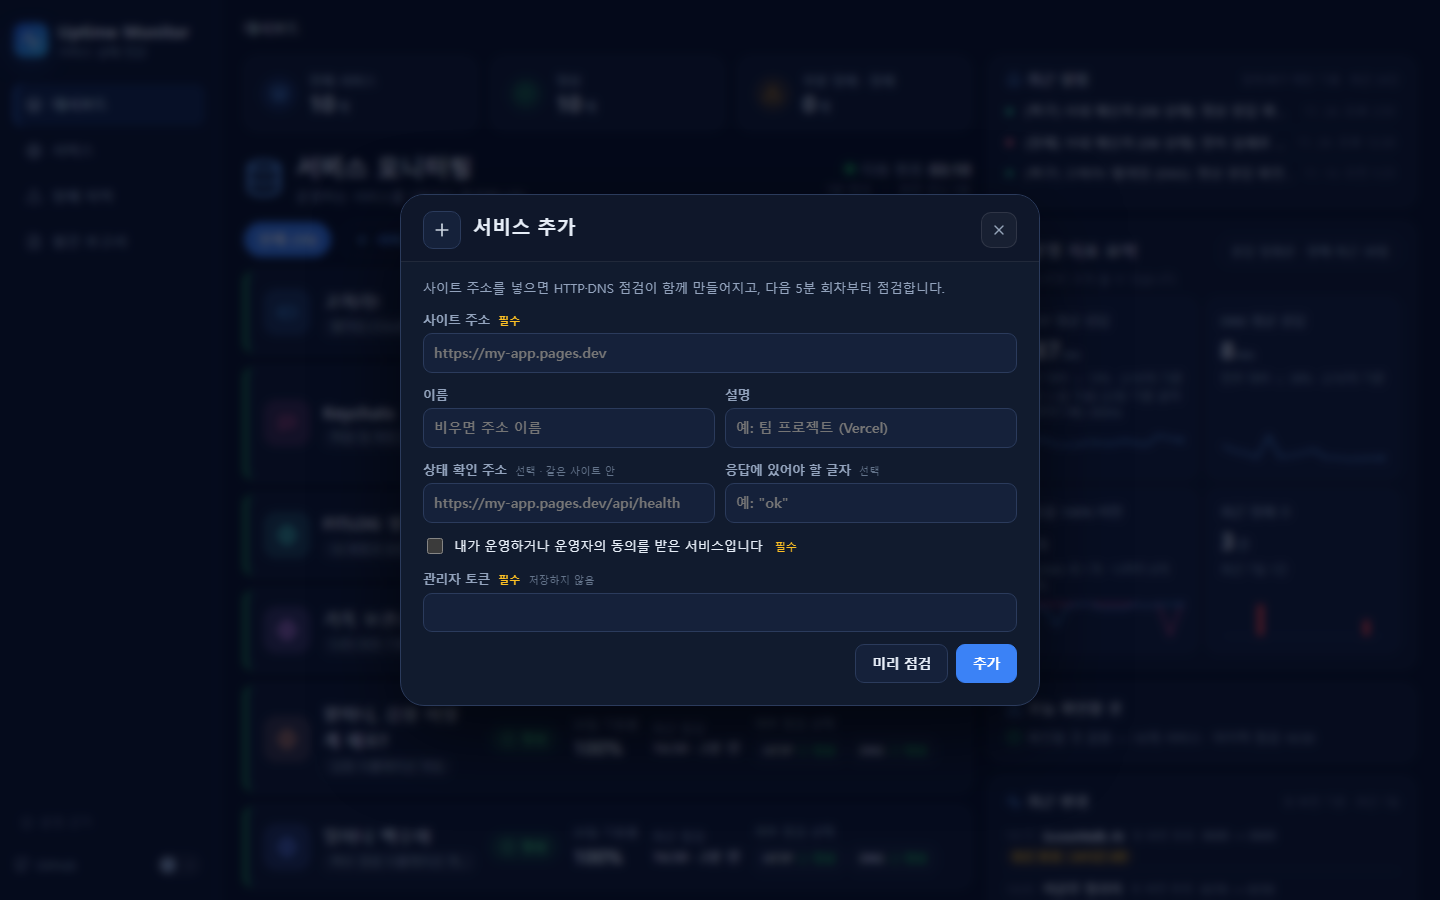
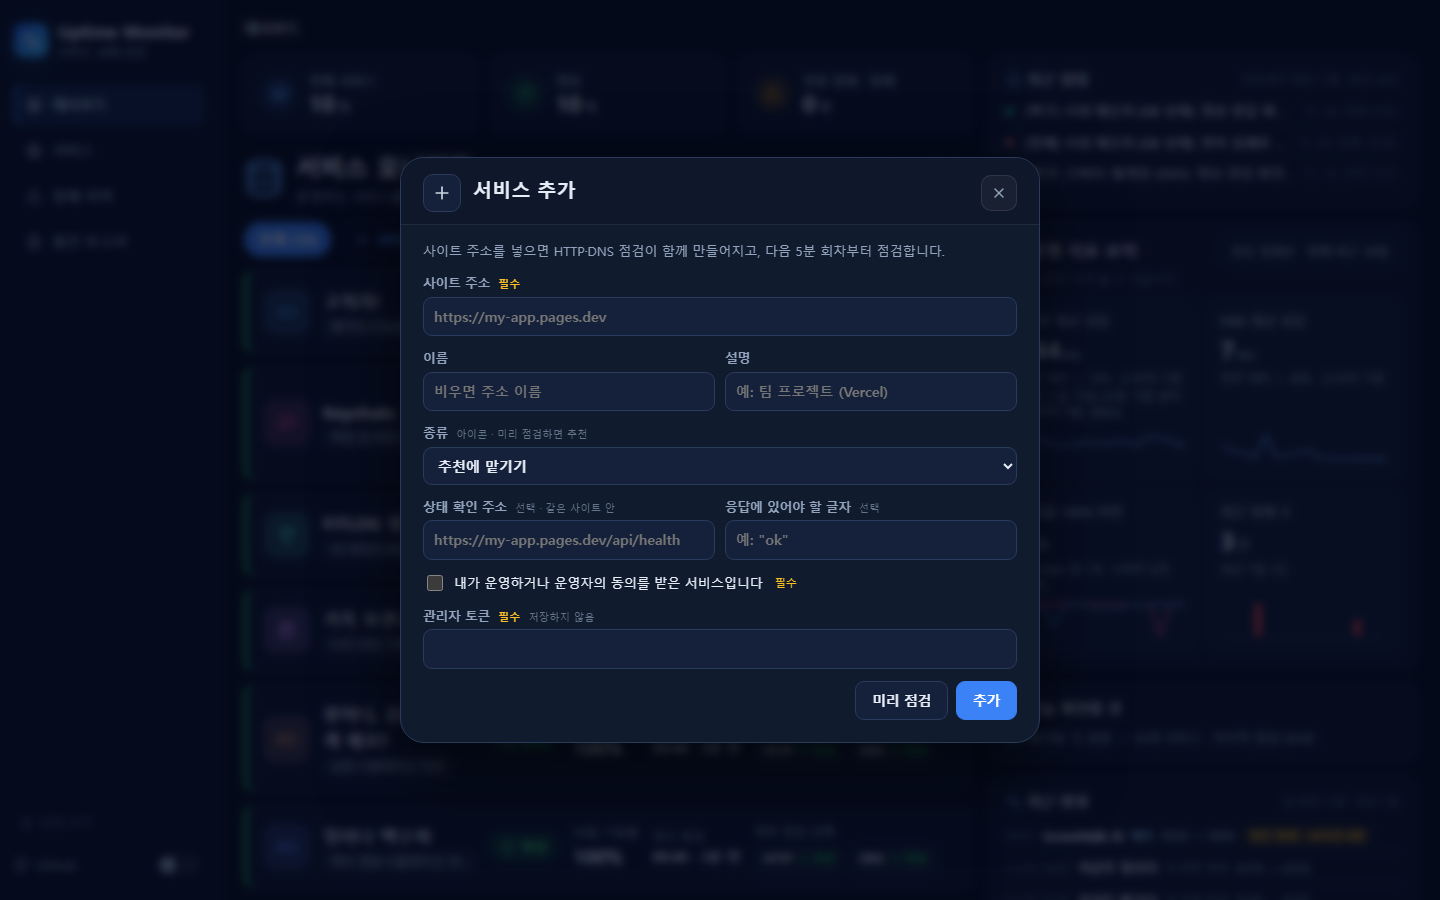
docs: 28단계 0022 적용·병합·배포·라이브 확인 반영 + 종류별 아이콘 스크린샷 5장 교체
- CLAUDE.md 28단계: db3fe3e → main 병합 14bc935, 0022 원격 적용·배포·라이브 결과
- README 스크린샷: 대시보드(어두운·밝은·390px)·Keychats 상세·서비스 추가 팝업을 라이브 화면으로 다시 찍음

diff --git a/CLAUDE.md b/CLAUDE.md
@@ -248,7 +248,7 @@
    - 라이브(2026-11-25 배포, 0021만 미적용이었음): 카드 제목 '최근 변경', 기존 변경은 모두 kind unknown('첫 화면 변경'), changeCounts에 deployDay·deployWeek, 콘솔 오류 없음. 배포가 잦은 동료 서비스는 아직 '잦은 변경 · 24시간 6번'(다음 배포부터 '배포')
    - README 스크린샷 교체 (2026-11-25, 커밋 전): 라이브 화면 10장(대시보드 어두운·밝은·390px, 운영 지표 팝업, 서비스 추가 팝업, 서비스 페이지 점검 21개, Keychats 상세, 11월 보고서, 새로 주간 보고서·운영 근거 보존 정책).
      Edge 헤드리스 + DevTools 프로토콜로 찍음(팝업은 열고 찍음, 스크립트는 프로젝트 밖). 동료 서비스 이름은 사용자가 공개를 허락해 그대로 둠. 장애 #41 훈련 화면 2장은 유지
-28. 서비스 종류별 아이콘  ← 완료 (2026-11-26, 커밋 전, 브랜치 feat/service-category. 0022 원격 적용·배포 전)
+28. 서비스 종류별 아이콘  ← 완료 (2026-11-26, db3fe3e → main 병합 14bc935·푸시, 0022 원격 적용·배포·라이브 확인, Notion B-28)
    - 배경: 아이콘이 public/detail.js에 서비스 키 2개(고쳐라!→게임, Keychats→채팅)로만 적혀 있어 '+ 서비스 추가'로 만든 8개는 모두 지구본
    - 0022(services.category, 기본 other, CHECK 11종: game·chat·ai·note·lifestyle·health·work·education·shopping·community·other) + 기존 10개 초기값(사용자 승인: 게임 3·채팅·패션·생활·기록·메모·의료·건강·사내 업무·AI·커뮤니티)
    - service-admin.js SERVICE_CATEGORIES·CATEGORY_LABEL·suggestCategory(단어 표, 순서=우선순위: game>chat>ai>work>health>note>lifestyle>education>shopping>community, 영어는 단어 경계, 'log'는 안 씀)·checkCategory,
@@ -258,3 +258,5 @@
    - D1: 읽기 늘지 않음(서비스 표에 열 하나), 쓰기는 0022 때 10행 + 추가·종류 바꾸기 때만
    - 확인: node --test 507개 통과(새 5개: 실제 10개 이름·설명으로 추천 = 0022 초기값, 단어 경계, 입력 검사, 추가·PATCH, 0022 기본값·CHECK·서버 목록과 같음, 종류마다 아이콘·한글 이름). 가짜 D1 화면: 종류 10가지 아이콘(어두운·밝은), 서비스 상세 머리, 추가 팝업 선택 칸, 콘솔 오류 없음
    - 순서 주의: 새 코드가 services.category를 읽으므로 0022 원격 적용 먼저, 배포는 그 뒤. 배포 뒤 README 대시보드 스크린샷(지구본 아이콘)은 다시 찍어야 함
+   - 라이브(2026-11-26, 0022만 미적용이었음): 원격 services.category 10개 모두 초기값대로, /api/services category, 대시보드 아이콘 title 10개(게임 3·채팅·패션·생활·기록·메모·커뮤니티·의료·건강·사내 업무·AI), 서비스 상세 'AI', 추가 팝업 종류 칸, 콘솔 오류 없음
+   - README 스크린샷 5장 다시 찍음 (2026-11-26, 대시보드 어두운·밝은·390px, Keychats 상세, 서비스 추가 팝업 — 종류별 아이콘·종류 칸). 나머지 5장은 아이콘이 없어 그대로

diff --git a/README.md b/README.md
@@ -33,11 +33,11 @@
 
 ## 화면
 
-라이브 사이트의 실제 점검 기록으로 찍었습니다 (2026-11-25, 서비스 10개, 1440px · 휴대폰은 390px). 동료 서비스 이름은 사용자가 공개를 허락해 그대로 두었습니다.
+라이브 사이트의 실제 점검 기록으로 찍었습니다 (2026-11-25, 서비스 10개, 1440px · 휴대폰은 390px. 대시보드 3장·서비스 상세·서비스 추가 팝업은 28단계 종류별 아이콘 반영 뒤 2026-11-26에 다시 찍음). 동료 서비스 이름은 사용자가 공개를 허락해 그대로 두었습니다.
 
 | 대시보드 (어두운 화면, 기본) | 대시보드 (밝은 화면) |
 |---|---|
-| ![대시보드, 어두운 화면: 요약 3칸, 서비스 줄 10개, 최근 알림, 운영 지표 숫자 타일, 오늘 확인할 것, 최근 변경](docs/screenshots/dashboard-dark.png) | ![대시보드, 밝은 화면](docs/screenshots/dashboard-light.png) |
+| ![대시보드, 어두운 화면: 요약 3칸, 서비스 줄 10개(종류별 아이콘), 최근 알림, 운영 지표 숫자 타일, 오늘 확인할 것, 최근 변경](docs/screenshots/dashboard-dark.png) | ![대시보드, 밝은 화면](docs/screenshots/dashboard-light.png) |
 
 | 서비스 상세 (Keychats) | 서비스 페이지: 점검별 카드 |
 |---|---|
@@ -45,7 +45,7 @@
 
 | 서비스 추가 팝업 (빈 입력칸) | 운영 지표 확대 팝업 (HTTP 평균 응답 · 겹쳐 보기) |
 |---|---|
-| ![서비스 추가 팝업: 주소·상태 확인 주소·운영자 동의·관리자 토큰](docs/screenshots/add-service.png) | ![운영 지표 확대: 서비스 10개 일평균 응답 선과 범례 버튼, 순위·서비스별 탭](docs/screenshots/metric-zoom.png) |
+| ![서비스 추가 팝업: 주소·이름·설명·종류(아이콘)·상태 확인 주소·운영자 동의·관리자 토큰](docs/screenshots/add-service.png) | ![운영 지표 확대: 서비스 10개 일평균 응답 선과 범례 버튼, 순위·서비스별 탭](docs/screenshots/metric-zoom.png) |
 
 | 휴대폰 (390px) | 월간 가용성 보고서 |
 |---|---|
